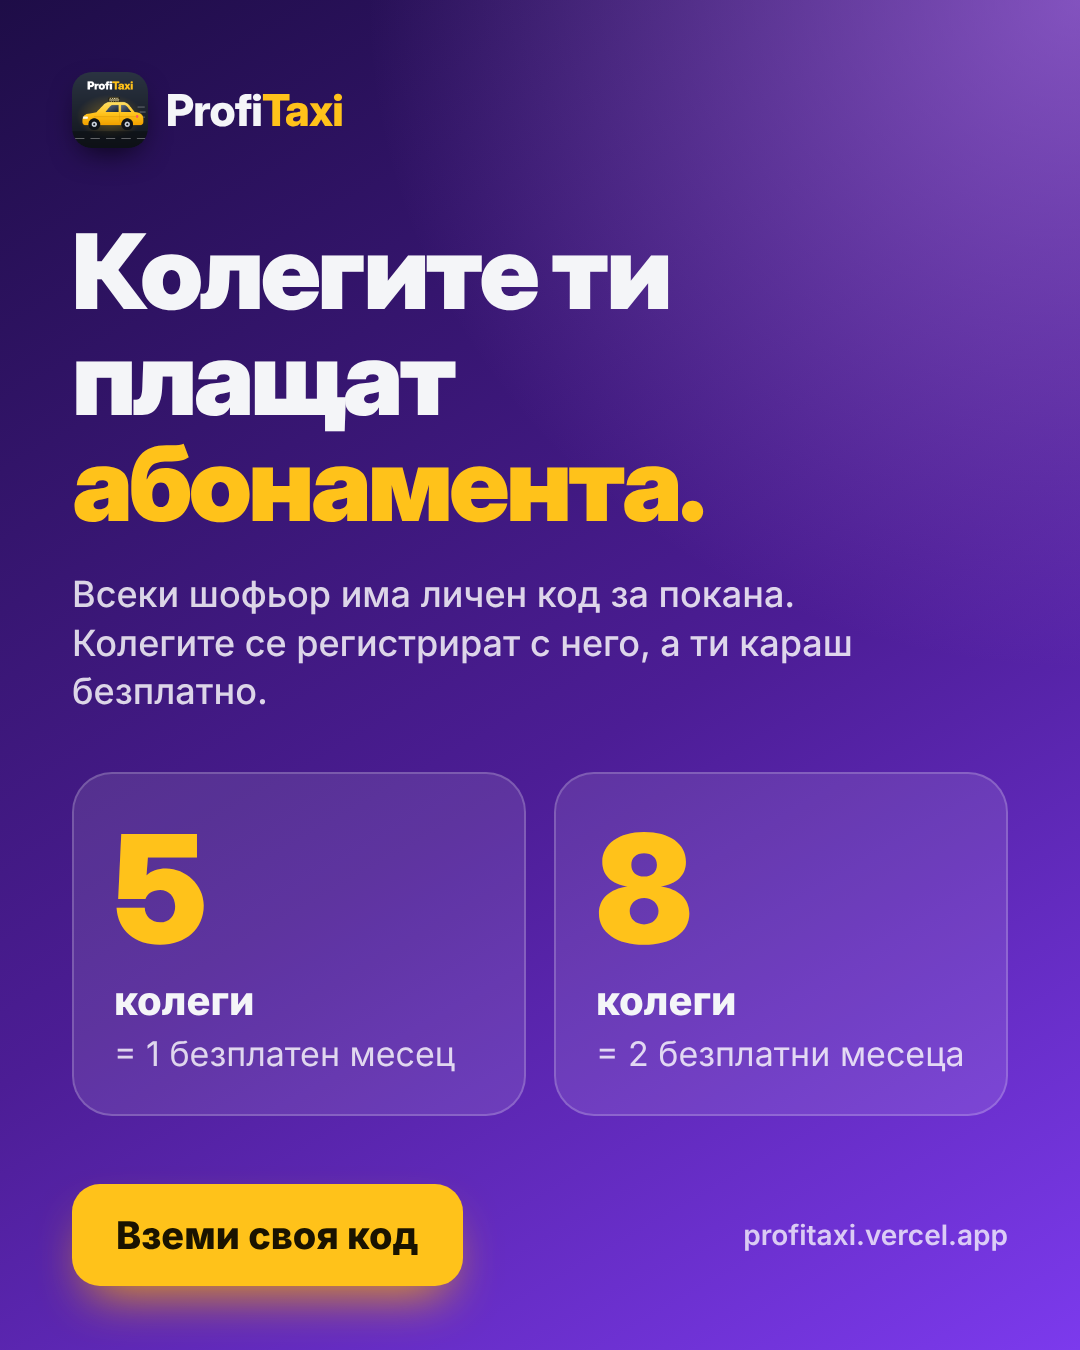
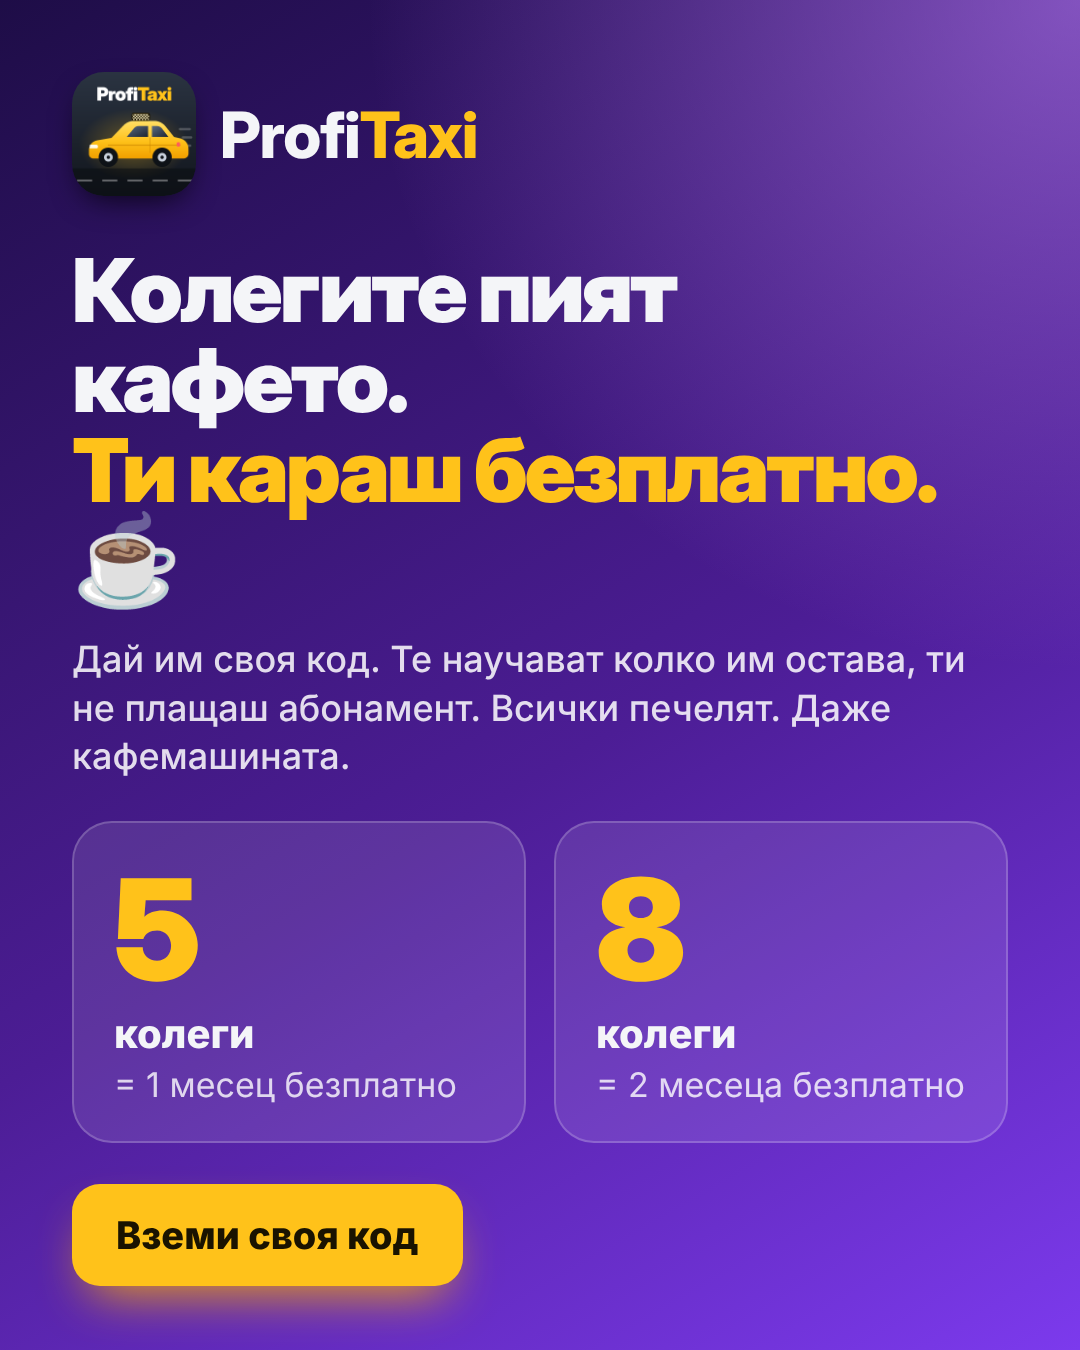
Реклами: по-голямо лого и закачливи текстове
Claude-Session: https://claude.ai/code/session_014HWntc6b96vsoychA5RByP

diff --git a/marketing/ads.html b/marketing/ads.html
@@ -12,8 +12,8 @@
   .glow.v { background: rgba(139, 92, 246, .55); }
   .glow.y { background: rgba(255, 194, 26, .35); }
   .ad > *:not(.glow):not(.checker) { position: relative; z-index: 1; }
-  .brand { display: flex; align-items: center; gap: 18px; font-family: 'Inter Display'; font-weight: 800; font-size: 44px; letter-spacing: -.02em; }
-  .brand img { width: 76px; height: 76px; border-radius: 20px; box-shadow: 0 12px 30px -10px rgba(0,0,0,.8); }
+  .brand { display: flex; align-items: center; gap: 24px; font-family: 'Inter Display'; font-weight: 800; font-size: 64px; letter-spacing: -.02em; }
+  .brand img { width: 124px; height: 124px; border-radius: 32px; box-shadow: 0 12px 30px -10px rgba(0,0,0,.8); }
   .brand b { color: var(--y); font-weight: 800; }
   h1 { font-family: 'Inter Display'; font-weight: 900; letter-spacing: -.035em; line-height: 1.02; }
   .y { color: var(--y); }
@@ -37,103 +37,100 @@
   .total span { font-size: 40px; font-weight: 800; }
   .total b { font-family: 'Inter Display'; font-size: 96px; font-weight: 900; letter-spacing: -.02em; word-spacing: .1em; color: var(--g); }
   .tag { display: inline-block; font-size: 26px; font-weight: 800; color: var(--v2); background: rgba(139,92,246,.16); padding: 10px 18px; border-radius: 999px; }
+  .quote { font-family: 'Inter Display'; font-weight: 900; letter-spacing: -.03em; line-height: 1.05; }
+  .who { font-size: 32px; color: var(--mut); font-weight: 600; margin-top: 18px; font-style: italic; }
+  .ic-big { width: 150px; height: 150px; border-radius: 40px; display: grid; place-items: center; font-size: 86px; background: rgba(255,255,255,.06); border: 2px solid rgba(255,255,255,.1); }
+  .opt { display: flex; align-items: center; gap: 28px; border-radius: 36px; padding: 34px 38px; background: var(--card); border: 2px solid var(--line); }
+  .opt .em { font-size: 84px; flex: none; }
+  .opt b { display: block; font-family: 'Inter Display'; font-weight: 900; font-size: 54px; letter-spacing: -.02em; }
+  .opt span { display: block; font-size: 38px; color: var(--mut); font-weight: 600; margin-top: 6px; }
 </style>
 </head>
 <body>
 
-<!-- 1. Основното послание -->
+<!-- 1. „Изкарах 3000 €!“ -->
 <div class="ad" id="ad1">
   <div class="glow v" style="width:700px;height:700px;right:-260px;top:-200px"></div>
   <div class="glow y" style="width:520px;height:520px;left:-260px;bottom:-200px"></div>
   <div class="brand"><img src="../icons/icon-512.png" alt=""><span>Profi<b>Taxi</b></span></div>
-  <h1 style="font-size:104px;margin-top:60px">Знаеш колко изкарваш.<br>Знаеш ли колко <span class="y">ти&nbsp;остава?</span></h1>
-  <p class="sub" style="margin-top:34px;max-width:900px">Оборотът лъже. ProfiTaxi вади горивото, ефира, наема и всички такси и ти показва <b style="color:#fff">реалната чиста печалба</b>.</p>
+  <p class="quote" style="font-size:108px;margin-top:64px">„Изкарах<br><span class="y">3 000 €</span><br>този месец!“</p>
+  <p class="who">– шофьор, който още не е извадил наема, горивото и ефира 😅</p>
   <div style="display:flex;gap:40px;align-items:flex-end;margin-top:auto">
-    <div style="flex:1;display:flex;flex-direction:column;gap:18px;padding-bottom:20px">
+    <div style="flex:1;display:flex;flex-direction:column;gap:22px;padding-bottom:24px">
+      <p class="sub" style="font-size:38px">ProfiTaxi ти казва<br>колко <b style="color:#fff">реално</b> ти остава.<br>Нежно. 🙂</p>
       <span class="cta" style="align-self:flex-start;font-size:36px">Пробвай безплатно</span>
-      <p class="url">14 дни · без карта</p>
     </div>
-    <div class="phone" style="width:380px;margin-bottom:-250px"><img src="../img/screen-home-dark.jpg" alt=""></div>
+    <div class="phone" style="width:360px;margin-bottom:-230px"><img src="../img/screen-home-dark.jpg" alt=""></div>
   </div>
 </div>
 
-<!-- 2. От оборот до чисто -->
+<!-- 2. „Тук наблизо е“ -->
 <div class="ad" id="ad2">
   <div class="glow v" style="width:640px;height:640px;left:-220px;top:-220px"></div>
   <div class="glow y" style="width:420px;height:420px;right:-160px;bottom:120px"></div>
   <div class="brand"><img src="../icons/icon-512.png" alt=""><span>Profi<b>Taxi</b></span></div>
-  <h1 style="font-size:92px;margin-top:56px">3 145 € оборот.<br><span class="y">Колко остават?</span></h1>
-  <div class="card" style="margin-top:48px">
-    <div style="display:flex;justify-content:space-between;align-items:center;margin-bottom:8px"><span style="font-size:30px;font-weight:700;color:var(--mut)">Септември · реален пример</span><span class="tag">23 смени</span></div>
-    <div class="row"><span>Оборот</span><b>3 145 €</b></div>
+  <h1 style="font-size:74px;margin-top:50px">Оборотът е като клиент, който казва <span class="y" style="white-space:nowrap">„тук наблизо е“.</span></h1>
+  <p class="sub" style="margin-top:22px">Звучи добре. До края на курса. 🙃</p>
+  <div class="card" style="margin-top:36px;padding:32px 44px">
+    <div class="row" style="padding-top:6px"><span>Оборот</span><b>3 145 €</b></div>
     <div class="row m"><span>Гориво</span><b>−460 €</b></div>
     <div class="row m"><span>Ефир</span><b>−171 €</b></div>
     <div class="row m"><span>Данъци</span><b>−260 €</b></div>
     <div class="row m"><span>Автомивка, сервиз, ГО…</span><b>−243 €</b></div>
-    <div class="total"><span>Чисто</span><b>2 011 €</b></div>
+    <div class="total"><span>Наистина остават</span><b>2 011 €</b></div>
   </div>
-  <div class="foot">
-    <p class="sub" style="font-size:34px">36% от оборота <b style="color:#fff">не са твои.</b><br>Знай го, преди да ги похарчиш.</p>
-    <span class="cta" style="font-size:34px;padding:26px 36px">Пробвай безплатно</span>
-  </div>
+  <div class="foot"><span class="cta" style="font-size:36px">Виж своята сметка</span><span class="url">14 дни безплатно</span></div>
 </div>
 
-<!-- 3. Разходите -->
+<!-- 3. Каското в 4 сутринта -->
 <div class="ad" id="ad3">
   <div class="glow y" style="width:620px;height:620px;right:-240px;top:-160px"></div>
   <div class="glow v" style="width:560px;height:560px;left:-240px;bottom:-160px"></div>
   <div class="brand"><img src="../icons/icon-512.png" alt=""><span>Profi<b>Taxi</b></span></div>
-  <div style="display:flex;gap:44px;margin-top:56px;flex:1">
-    <div style="flex:1;display:flex;flex-direction:column;gap:22px">
-      <h1 style="font-size:84px">Наемът.<br>Ефирът.<br>Горивото.<br>Винетката.<br><span class="y">Каското.</span></h1>
-      <p class="sub" style="margin-top:12px">Всичко на едно място, разпределено по дни. С напомняне <b style="color:#fff">3, 2 и 1 ден</b> преди падеж.</p>
-      <div style="display:flex;flex-wrap:wrap;gap:12px;margin-top:6px"><span class="chip"><i></i>Своя кола</span><span class="chip"><i></i>Под наем</span><span class="chip"><i></i>Лизинг</span></div>
+  <div style="display:flex;gap:40px;margin-top:56px;flex:1">
+    <div style="flex:1;display:flex;flex-direction:column;gap:26px">
+      <div class="ic-big">⏰</div>
+      <h1 style="font-size:82px">Каското идва изневиделица.</h1>
+      <p class="quote" style="font-size:52px;color:var(--y)">Като клиент в 4:00 сутринта.</p>
+      <p class="sub">ProfiTaxi ти напомня <b style="color:#fff">3, 2 и 1 ден</b> по-рано. Наем, лизинг, ГО, винетка – нищо не те изненадва.</p>
     </div>
-    <div class="phone" style="width:370px;flex:none;align-self:flex-start;margin-top:30px"><img src="../img/screen-costs-dark.jpg" alt=""></div>
+    <div class="phone" style="width:340px;flex:none;align-self:flex-start;margin-top:150px"><img src="../img/screen-costs-dark.jpg" alt=""></div>
   </div>
-  <div class="foot" style="margin-top:40px"><span class="cta">Пробвай 14 дни безплатно</span></div>
+  <div class="foot" style="margin-top:30px"><span class="cta">Пробвай 14 дни безплатно</span></div>
 </div>
 
 <!-- 4. Покани -->
 <div class="ad" id="ad4" style="background:radial-gradient(120% 90% at 100% 0%, rgba(192,132,252,.55), transparent 55%), linear-gradient(150deg, #1E0D47, #4C1D95 55%, #7C3AED)">
   <div class="brand"><img src="../icons/icon-512.png" alt=""><span>Profi<b>Taxi</b></span></div>
-  <h1 style="font-size:104px;margin-top:70px">Колегите ти<br>плащат<br><span class="y">абонамента.</span></h1>
-  <p class="sub" style="color:rgba(255,255,255,.82);margin-top:34px;max-width:860px">Всеки шофьор има личен код за покана. Колегите се регистрират с него, а ти караш безплатно.</p>
-  <div style="display:grid;grid-template-columns:1fr 1fr;gap:28px;margin-top:56px">
-    <div style="background:rgba(255,255,255,.1);border:2px solid rgba(255,255,255,.2);border-radius:40px;padding:40px">
-      <div style="font-family:'Inter Display';font-weight:900;font-size:150px;line-height:1;color:var(--y)">5</div>
-      <div style="font-size:40px;font-weight:800;margin-top:12px">колеги</div>
-      <div style="font-size:34px;color:rgba(255,255,255,.8);margin-top:8px">= 1 безплатен месец</div>
+  <h1 style="font-size:88px;margin-top:50px">Колегите пият кафето.<br><span class="y">Ти караш безплатно.</span> ☕</h1>
+  <p class="sub" style="color:rgba(255,255,255,.85);margin-top:30px;max-width:900px">Дай им своя код. Те научават колко им остава, ти не плащаш абонамент. Всички печелят. Даже кафемашината.</p>
+  <div style="display:grid;grid-template-columns:1fr 1fr;gap:28px;margin-top:40px">
+    <div style="background:rgba(255,255,255,.1);border:2px solid rgba(255,255,255,.2);border-radius:40px;padding:36px 40px">
+      <div style="font-family:'Inter Display';font-weight:900;font-size:140px;line-height:1;color:var(--y)">5</div>
+      <div style="font-size:40px;font-weight:800;margin-top:10px">колеги</div>
+      <div style="font-size:34px;color:rgba(255,255,255,.8);margin-top:6px">= 1 месец безплатно</div>
     </div>
-    <div style="background:rgba(255,255,255,.1);border:2px solid rgba(255,255,255,.2);border-radius:40px;padding:40px">
-      <div style="font-family:'Inter Display';font-weight:900;font-size:150px;line-height:1;color:var(--y)">8</div>
-      <div style="font-size:40px;font-weight:800;margin-top:12px">колеги</div>
-      <div style="font-size:34px;color:rgba(255,255,255,.8);margin-top:8px">= 2 безплатни месеца</div>
+    <div style="background:rgba(255,255,255,.1);border:2px solid rgba(255,255,255,.2);border-radius:40px;padding:36px 40px">
+      <div style="font-family:'Inter Display';font-weight:900;font-size:140px;line-height:1;color:var(--y)">8</div>
+      <div style="font-size:40px;font-weight:800;margin-top:10px">колеги</div>
+      <div style="font-size:34px;color:rgba(255,255,255,.8);margin-top:6px">= 2 месеца безплатно</div>
     </div>
   </div>
-  <div class="foot"><span class="cta">Вземи своя код</span><span class="url" style="color:rgba(255,255,255,.75)">profitaxi.vercel.app</span></div>
+  <div class="foot"><span class="cta">Вземи своя код</span></div>
 </div>
 
-<!-- 5. Шегата -->
+<!-- 5. Тест Profi или Amateur -->
 <div class="ad" id="ad5">
   <div class="glow v" style="width:760px;height:760px;left:50%;top:-340px;margin-left:-380px"></div>
   <div class="checker" style="bottom:0"></div>
   <div class="brand"><img src="../icons/icon-512.png" alt=""><span>Profi<b>Taxi</b></span></div>
-  <div style="margin-top:90px;display:flex;flex-direction:column;gap:30px">
-    <span class="tag" style="font-size:30px;align-self:flex-start">Таксиметров тест</span>
-    <h1 style="font-size:96px">Знаеш колко ти струва<br>един километър?</h1>
+  <span class="tag" style="font-size:32px;align-self:flex-start;margin-top:56px">Бърз тест 🧐</span>
+  <h1 style="font-size:92px;margin-top:22px">Колко ти струва един километър?</h1>
+  <div style="display:flex;flex-direction:column;gap:22px;margin-top:48px">
+    <div class="opt" style="border-color:rgba(255,194,26,.6)"><span class="em">😎</span><div><b>„0,44 €. Знам.“</b><span>Ти си Profi<span class="y" style="display:inline;color:var(--y);font-size:inherit;margin:0">Taxi</span></span></div></div>
+    <div class="opt"><span class="em">🤷♂</span><div><b>„Ами… горе-долу.“</b><span>Ти си Amateur<s style="text-decoration-color:var(--r);text-decoration-thickness:4px">Taxi</s> 😂</span></div></div>
   </div>
-  <div style="display:grid;grid-template-columns:1fr 1fr;gap:28px;margin-top:64px">
-    <div class="card" style="padding:44px">
-      <div style="font-family:'Inter Display';font-weight:900;font-size:70px;letter-spacing:-.03em;color:var(--y)">Да.</div>
-      <div style="font-size:36px;font-weight:700;margin-top:16px;line-height:1.3">Ти си<br><span style="font-family:'Inter Display';font-weight:900;font-size:50px">Profi<span class="y">Taxi</span></span></div>
-    </div>
-    <div class="card" style="padding:44px">
-      <div style="font-family:'Inter Display';font-weight:900;font-size:70px;letter-spacing:-.03em;color:var(--mut)">Не.</div>
-      <div style="font-size:36px;font-weight:700;margin-top:16px;line-height:1.3">Ти си<br><span style="font-family:'Inter Display';font-weight:900;font-size:50px;white-space:nowrap">Amateur<s style="color:var(--mut);text-decoration-color:var(--r);text-decoration-thickness:6px">Taxi</s> 😂</span></div>
-    </div>
-  </div>
-  <p class="sub" style="margin-top:44px">Оправя се за 10 секунди на ден.</p>
+  <p class="sub" style="margin-top:40px">Ставаш Profi за 10 секунди на ден. Без курсове, без Excel. 😉</p>
   <div class="foot" style="margin-bottom:22px"><span class="cta">Стани Profi – 14 дни безплатно</span></div>
 </div>
 
